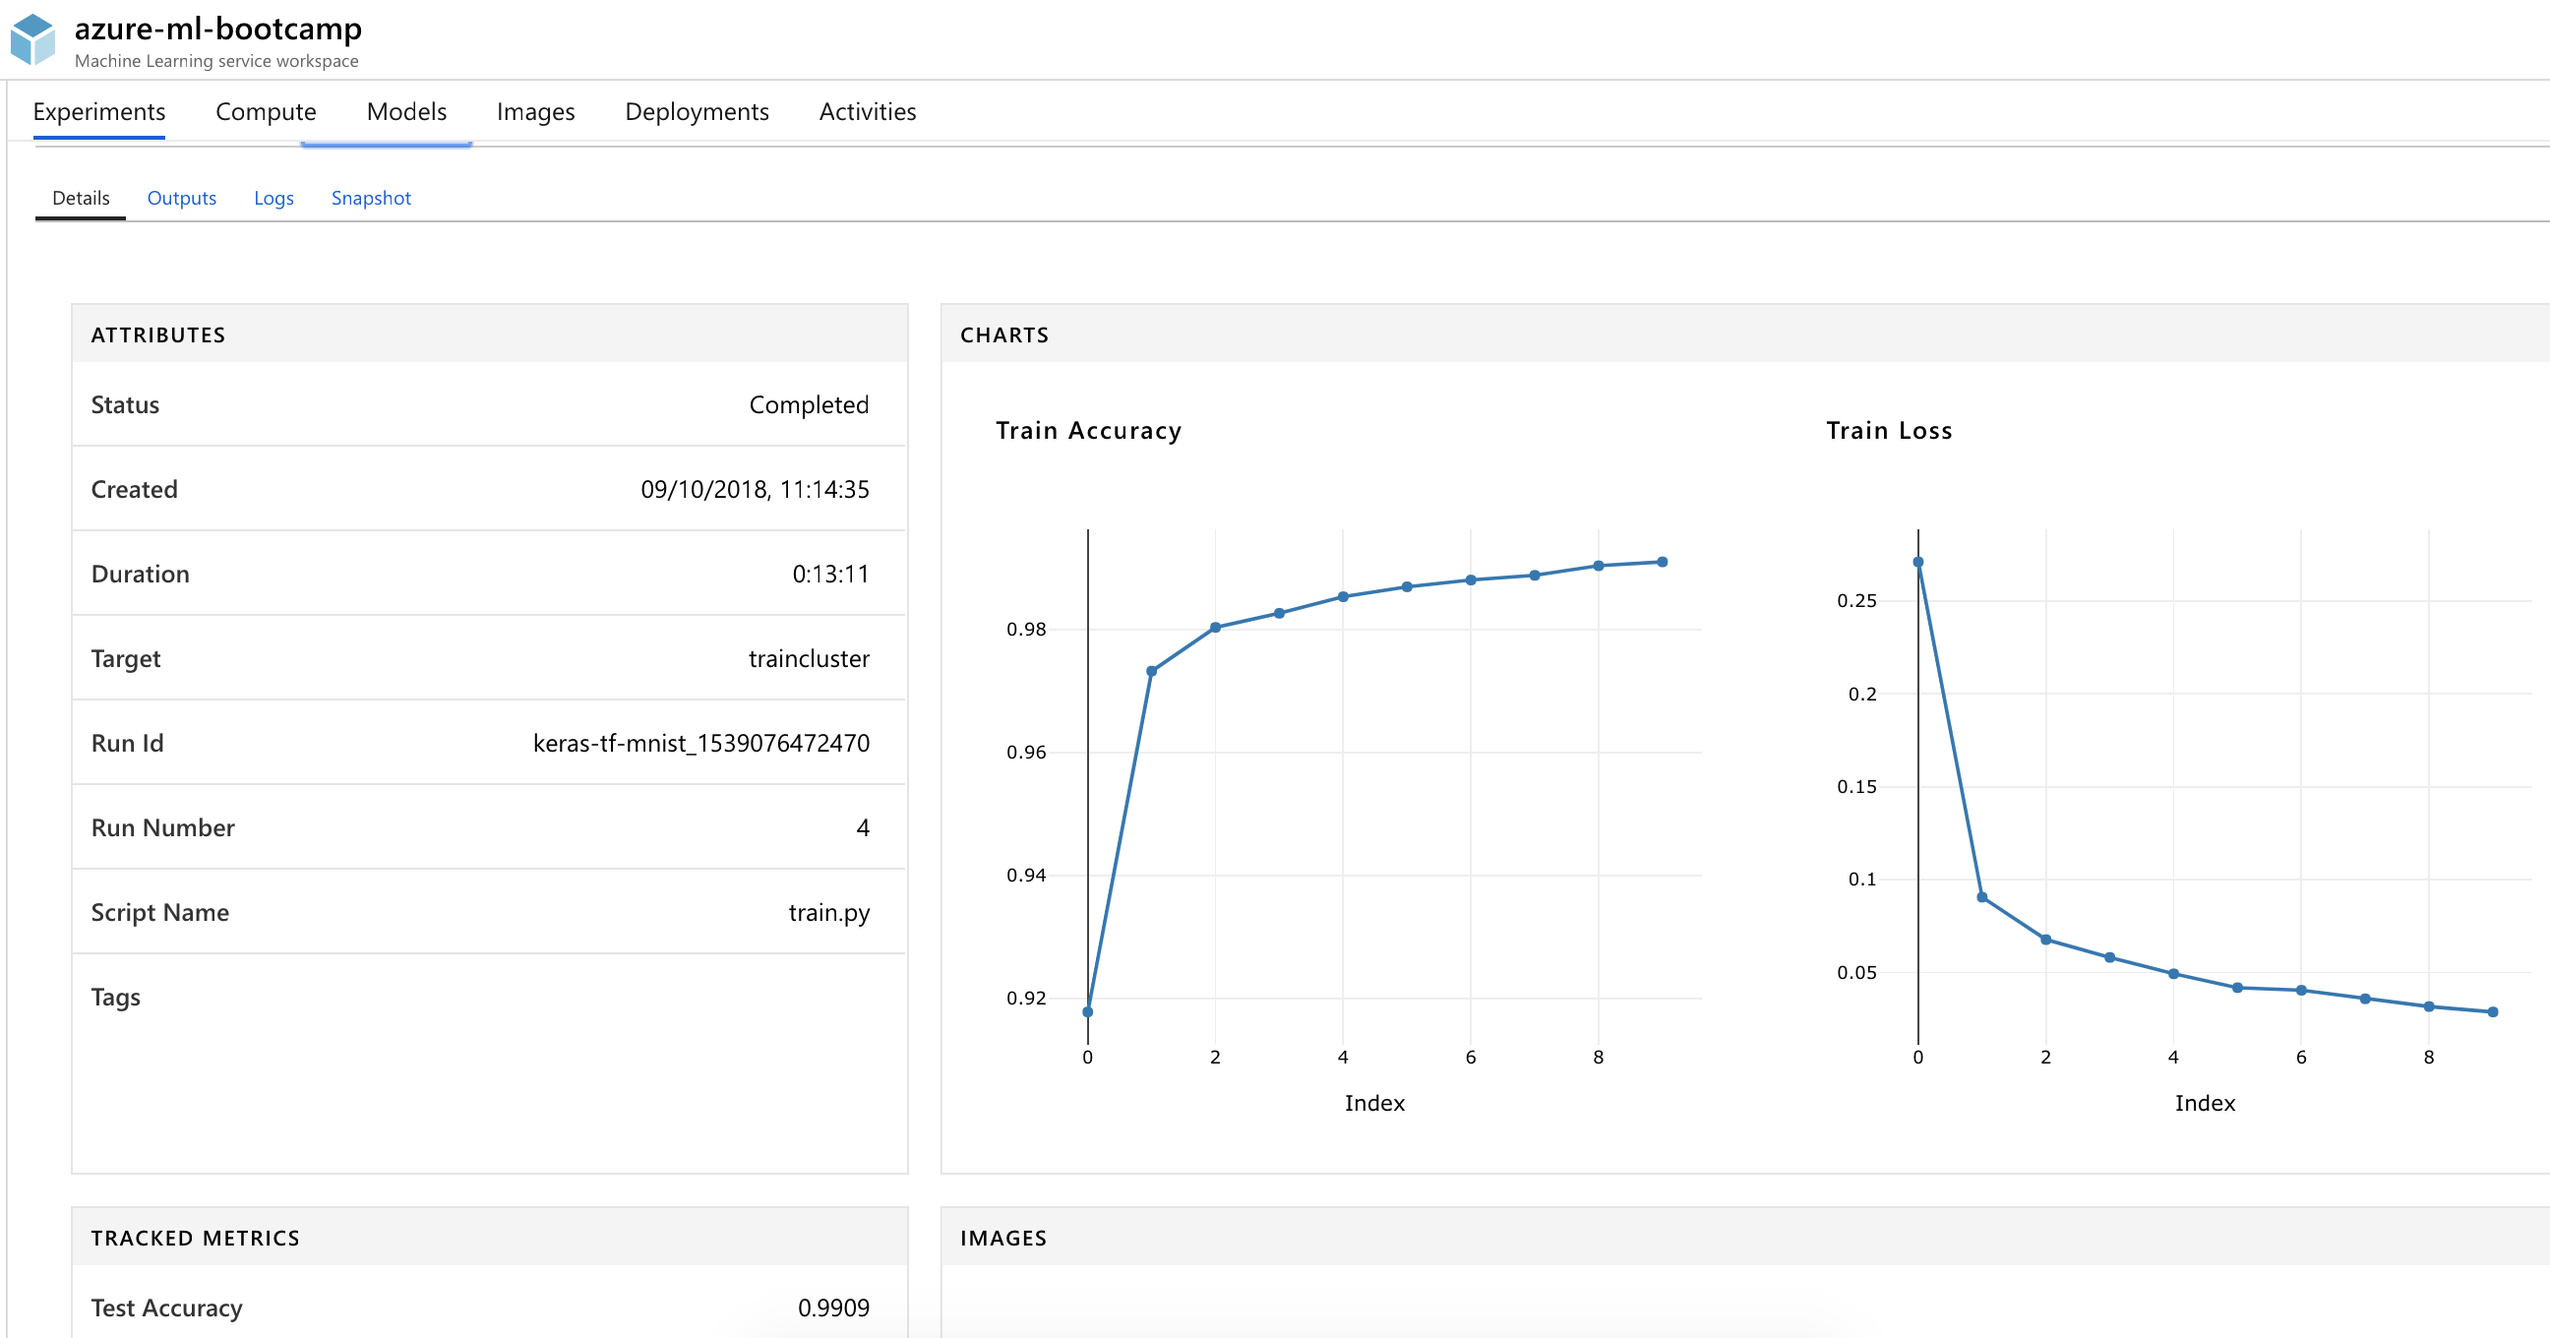
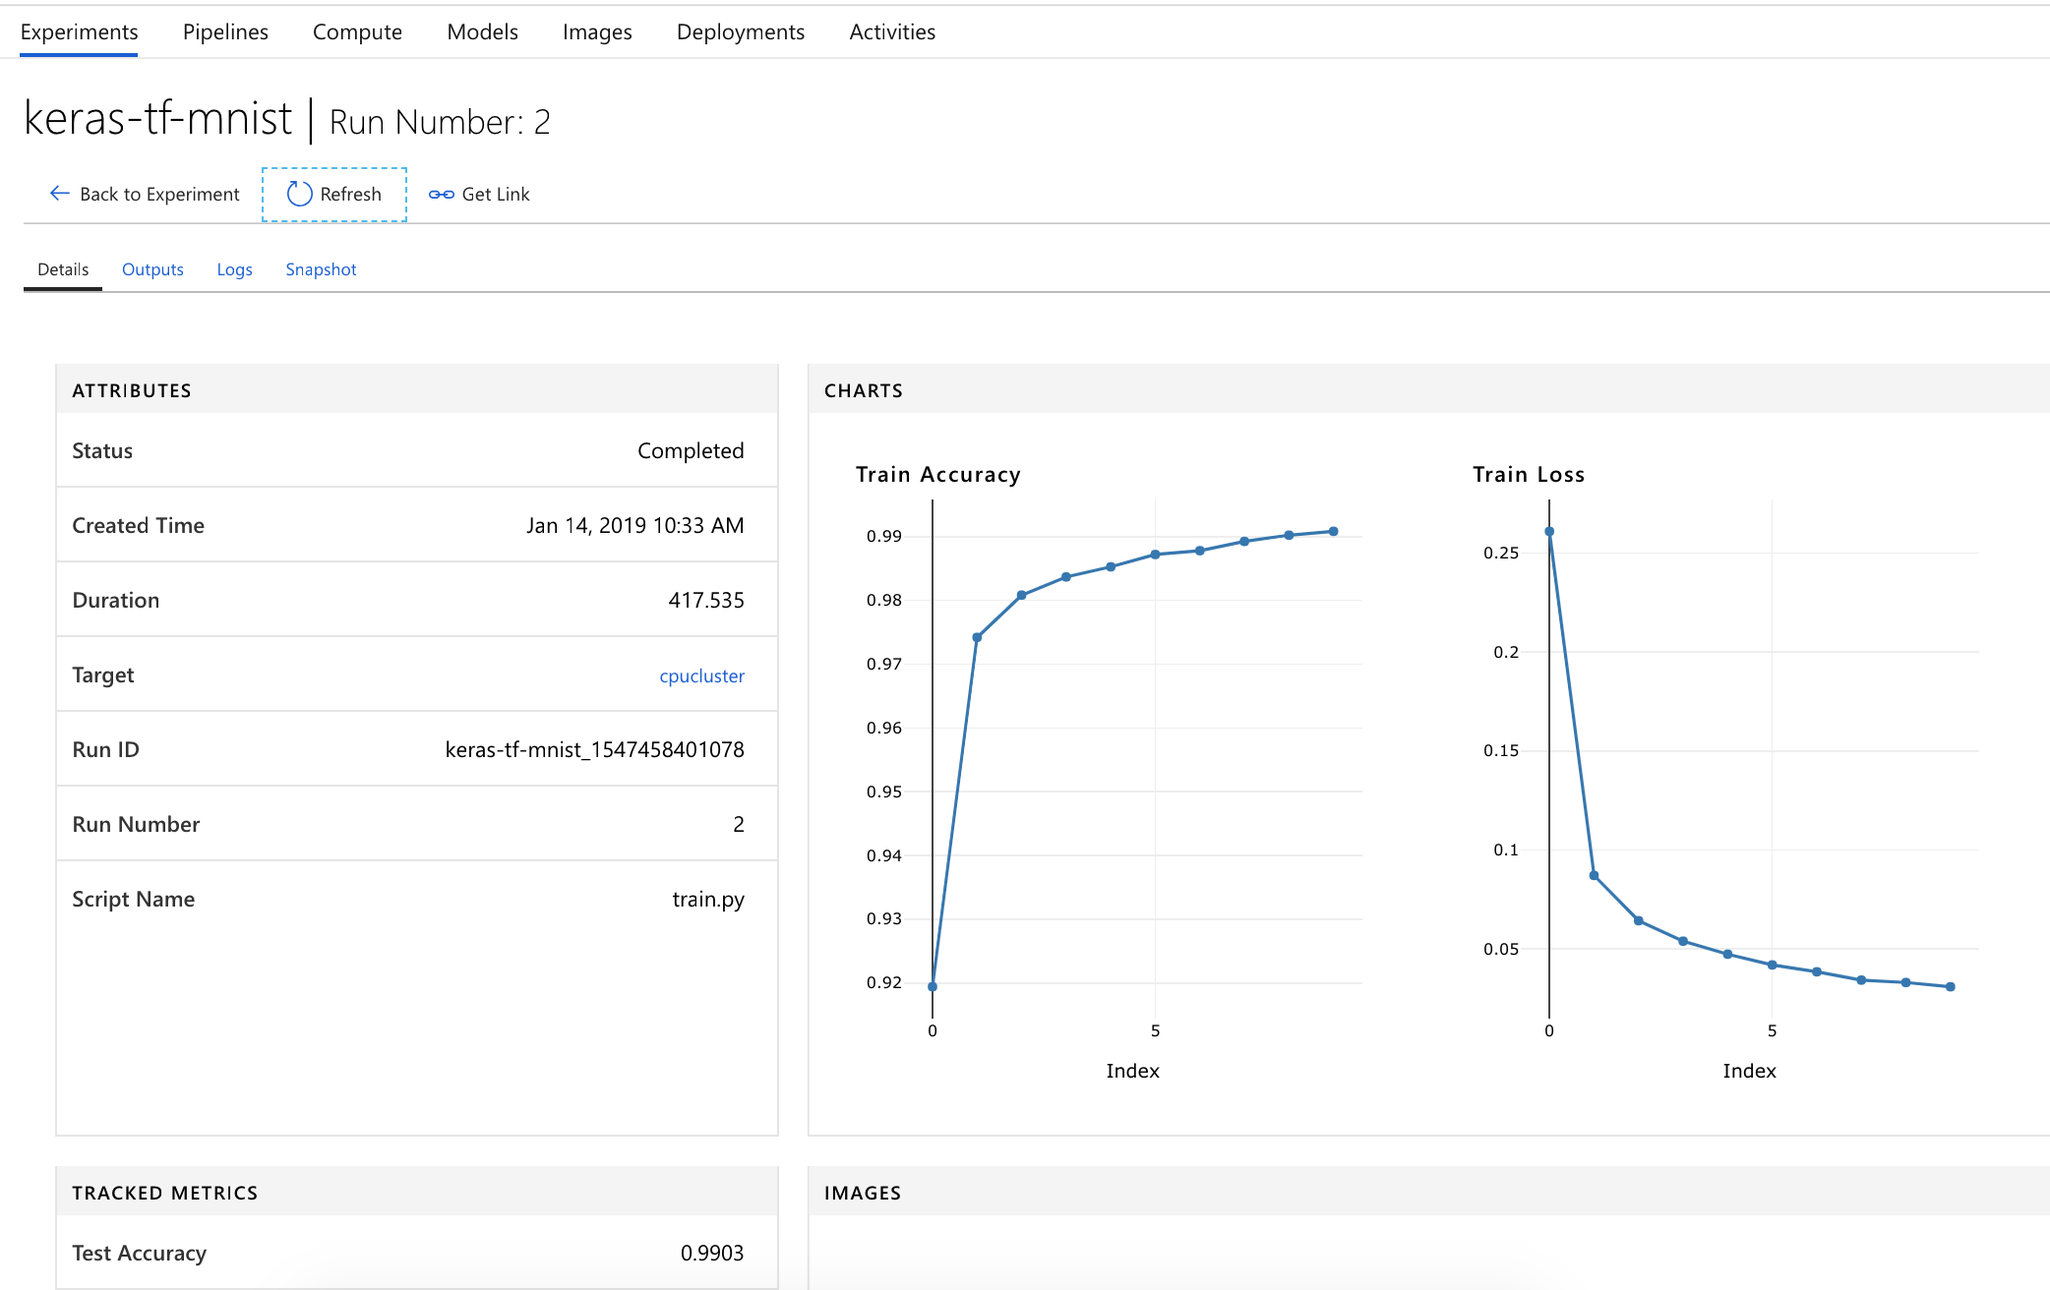
Updated Challenge 02

diff --git a/hints/challenge_02.md b/hints/challenge_02.md
@@ -1,8 +1,8 @@
 # Hints for Challenge 2
 
-Our model in challenge 1 had an accuracy of `92%`. For the MNIST data set, this is not very good. In order to train a more powerful and complex model, we'll need more compute. Hence, instead of training a model locally in our Notebook, we'll be using [Azure Batch AI](https://azure.microsoft.com/en-us/services/batch-ai/) to train our model on a dedicated compute cluster. As a Machine Learning framework, we'll use Keras with a TensorFlow backend. The good thing is, that the interaction with Azure Machine Learning won't change.
+Our model in challenge 1 had an accuracy of `92%`. For the MNIST data set, this is not very good. In order to train a more powerful and complex model, we'll need more compute. Hence, instead of training a model locally in our Notebook, we'll be using [Azure Machine Learning Compute](https://docs.microsoft.com/en-us/azure/machine-learning/service/how-to-set-up-training-targets) to train our model on a dedicated compute cluster. As a Machine Learning framework, we'll use Keras with a TensorFlow backend. The good thing is, that the interaction with Azure Machine Learning won't change.
 
-**Note:** Obviously we do not need Azure Batch AI for such a simple task, a single VM instance with GPU would be absolutely sufficient. However - for sake of education - we'll be using Azure Batch AI In this challenge. 
+**Note:** Obviously we do not need Azure Machine Learning Compute for such a simple task, a single VM instance with GPU would be absolutely sufficient. However - for sake of education - we'll be using Azure Machine Learning Compute In this challenge. 
 
 First, let's create a new notebook `challenge02.ipynb` for this challenge.
 
@@ -29,7 +29,7 @@ urllib.request.urlretrieve('http://yann.lecun.com/exdb/mnist/t10k-images-idx3-ub
 urllib.request.urlretrieve('http://yann.lecun.com/exdb/mnist/t10k-labels-idx1-ubyte.gz', filename='./data/test-labels.gz')
 ```
 
-In this challenge, we'll be training remotely. Therefore, we'll need to access the MNIST dataset inside our Batch AI cluster.
+In this challenge, we'll be training remotely. Therefore, we'll need to access the MNIST dataset inside our Azure Machine Learning Compute cluster.
 
 To do so, we'll upload it to the default datastore that our Azure ML Workspace provided for us. This code will retrieve the default datastore (Azure Files) and upload the four files from MNIST into the `./mnist` folder:
 
@@ -37,7 +37,9 @@ To do so, we'll upload it to the default datastore that our Azure ML Workspace p
 ds = ws.get_default_datastore()
 
 print("Datastore details:")
-print(ds.datastore_type, ds.account_name, ds.container_name)
+print("Type:", ds.datastore_type)
+print("Storage Account:", ds.account_name)
+print("Share Name:", ds.container_name)
 
 ds.upload(src_dir='./data', target_path='mnist', overwrite=True, show_progress=True)
 ```
@@ -46,51 +48,53 @@ If we go to the default Storage Account that the Azure ML Workspace created for 
 
 ![alt text](../images/02-dataset_in_azure_files.png "MNIST dataset in Azure Files")
 
-Next, we can create an empty Batch AI cluster in Azure:
+Next, we can create an `Azure Machine Learning Compute` cluster in Azure:
 
 ***Note:***
-If you are using a `Pay-as-you-Go` or `Free Trial` Azure subscription, you might need to create the Batch AI cluster in the `eastus` region, as `westeurope` is not enabled by default. To do so, just uncomment the `#location='eastus',` line. 
+If you are using a `Pay-as-you-Go` or `Free Trial` Azure subscription, please make sure that your Machine Learning workspace is in `eastus` region (it can happen that `westeurope` is not enabled by default). To do so, add a `location='eastus'` parameter in the `AmlCompute.provisioning_configuration` line. 
 
 ```python
-from azureml.core.compute import ComputeTarget, BatchAiCompute
-from azureml.core.compute_target import ComputeTargetException
+from azureml.core.compute import AmlCompute
+from azureml.core.compute import ComputeTarget
+import os
 
-# choose a name for your cluster
-batchai_cluster_name = "traincluster"
+# Configure our cluster details
+compute_name = "cpucluster"
+compute_min_nodes = 1
+compute_max_nodes = 1
+vm_size = "STANDARD_D4_V2"
 
-try:
-    # look for the existing cluster by name
-    compute_target = ComputeTarget(workspace=ws, name=batchai_cluster_name)
-    if type(compute_target) is BatchAiCompute:
-        print('found compute target {}, just use it.'.format(batchai_cluster_name))
-    else:
-        print('{} exists but it is not a Batch AI cluster. Please choose a different name.'.format(batchai_cluster_name))
-except ComputeTargetException:
-    print('creating a new compute target...')
-    compute_config = BatchAiCompute.provisioning_configuration(vm_size="STANDARD_D4_V2", # small CPU-based VM
-                                                               #location='eastus', # use eastus location if you are using a free or Pay-as-you-go subscription!
-                                                               #vm_priority='lowpriority', # optional
-                                                               autoscale_enabled=True,
-                                                               cluster_min_nodes=1, 
-                                                               cluster_max_nodes=1)
+# Check if a cluster with the same name already exists
+if compute_name in ws.compute_targets:
+    compute_target = ws.compute_targets[compute_name]
+    if compute_target and type(compute_target) is AmlCompute:
+        print("Found compute target, let's just reuse it:", compute_name)
+else:
+    print('Creating a new compute target...')
+    provisioning_config = AmlCompute.provisioning_configuration(vm_size = vm_size,
+                                                                min_nodes = compute_min_nodes,
+                                                                max_nodes = compute_max_nodes)
 
-    # create the cluster and wait until it has been provisioned
-    compute_target = ComputeTarget.create(ws, batchai_cluster_name, compute_config)
+    # Create the cluster
+    compute_target = ComputeTarget.create(ws, compute_name, provisioning_config)
+    
+    # We can poll for a minimum number of nodes and for a specific timeout. 
+    # If no min node count is provided it will use the scale settings for the cluster
     compute_target.wait_for_completion(show_output=True, min_node_count=None, timeout_in_minutes=20)
     
-    # Get the status of our cluster
+     # For a more detailed view of current AmlCompute status, use the 'status' property    
     print(compute_target.status.serialize())
 ```
 
-Here we can configure our cluster size, the initial VM count, autoscaling, and most importantly, the VM Size. In our example, we'll stick with a smaller VM for saving cost. If you want, you can try out a more powerful VM, or even a `NC` instance. Provisioning the initial cluster should take around 3-05 minutes.
+Here we can configure our minimum and maximum cluster size, and most importantly, the VM Size. In our example, we'll stick with a smaller VM for saving cost. If you want, you can try out a more powerful VM, or even a `NC` instance. Provisioning the initial cluster should take around 3-5 minutes. More details on further configuration parameters can be found [here](https://docs.microsoft.com/en-us/python/api/azureml-core/azureml.core.compute.amlcompute(class)?view=azure-ml-py#provisioning-configuration-vm-size-----vm-priority--dedicated---min-nodes-0--max-nodes-none--idle-seconds-before-scaledown-none--vnet-resourcegroup-name-none--vnet-name-none--subnet-name-none--tags-none--description-none-), as for example `idle_seconds_before_scaledown`, which defines when the cluster should auto-scale down.
 
-If we now look under the `Compute` tab in our Azure ML Workspace, we can see our Batch AI cluster:
+If we now look under the `Compute` tab in our Azure ML Workspace, we can see our Azure Machine Learning Compute cluster:
 
-![alt text](../images/02-create_cluster.png "Create our Batch AI cluster for training")
+![alt text](../images/02-create_cluster.png "Create our Machine Learning Compute cluster for training")
 
 The cluster VMs will take a few minutes to spin up.
 
-In the last challenge, we had all our code in our Jupyter Notebook. Since we're training remotely now, our Batch AI cluster needs to somehow get the Python code for reading the data and training our model. Hence, we create a `scripts` folder and put our training Python code in it:
+In the last challenge, we had all our code in our Jupyter Notebook. Since we're training remotely now, our Machine Learning Compute cluster needs to somehow get the Python code for reading the data and training our model. Hence, we create a `scripts` folder and put our training Python code in it:
 
 ```python
 import os, shutil
@@ -198,7 +202,7 @@ run.log('Epochs', epochs)
 # Azure ML expects a field called 'accuracy' for displaying it in the Azure portal
 run.log('accuracy', accuracy)
 
-# Save model, the outputs folder is automatically uploaded into experiment record by Batch AI
+# Save model, the outputs folder is automatically uploaded into experiment record by Azure Machine Learning Compute
 os.makedirs('outputs', exist_ok=True)
 model.save('./outputs/keras-tf-mnist.h5')
 ```
@@ -213,9 +217,9 @@ This looks a little bit more complex than our last example! Let's walk through w
 1. We let Keras assemble and train the model
 1. We run our test data through it and get the predictions
 1. We log the train and test accuracies to our experiment
-1. We save the model to the `outputs/` folder (Batch AI will automatically upload that folder to the experiment afterwards)
+1. We save the model to the `outputs/` folder (Azure Machine Learning Compute will automatically upload that folder to the experiment afterwards)
 
-To get the training working, we need to package the scripts and "send" them to Batch AI. Azure ML uses the `Estimator` class for that:
+To get the training working, we need to package the scripts and "send" them to Azure Machine Learning Compute. Azure ML uses the `Estimator` class for that:
 
 ```python
 from azureml.train.estimator import Estimator
@@ -235,7 +239,7 @@ est = Estimator(source_directory=script_folder,
                 conda_packages=['keras'])
 ```
 
-As you can see, we define where our scripts are, what the compute target should be, and the dependencies (`keras` in this case). Lastly, we also give in the script parameters, for trying out different hyperparameters (not covered here).
+As you can see, we define where our scripts are, what the compute target should be, and the dependencies (`keras` in this case). Lastly, we also give in the script parameters, for [(automatically) trying out different hyperparameters](https://docs.microsoft.com/en-us/azure/machine-learning/service/how-to-tune-hyperparameters) (not covered here).
 
 **Note**: There is also a separate `TensorFlow` Estimator for just TensorFlow, see [here](https://docs.microsoft.com/en-us/azure/machine-learning/service/how-to-train-tensorflow). Since we want to keep it generic in this challenge, we'll rely on the standard `Estimator`.
 
@@ -246,31 +250,24 @@ run = experiment.submit(config=est)
 run
 ```
 
-Submitting the job is an asynchronous call, hence we'll have to keep checking the status (the widget will auto-refresh):
+We are be able to see what is going on by logging into the Azure Portal, selecting our `ML Workspace`, clicking `Experiment`, picking the latest `Run`, clicking `Logs` and then picking the desired log file.
 
-```python
-from azureml.train.widgets import RunDetails
-RunDetails(run).show()
-```
+Under the `Compute` tab, we can also see that our cluster is now training the model:
 
-**Note**: The widget current only seems to work in Chrome and Edge.
+![alt text](../images/02-running_training.png "Our trainig is running")
 
 The initial run will take a while, here's why:
 
 In the background, Azure ML will now perform the following steps:
 
 * Package our scripts as a Docker image and push it to our Azure Container Registry (initially this will take 5-10 minutes)
-* Scale up the Batch AI cluster (if initial size was 0)
-* Pull the Docker image to the Batch AI cluster
-* Mount the MNIST data from Azure Files to the Batch AI cluster (for fast local access)
+* Scale up the Azure Machine Learning Compute cluster (only if initial size was 0)
+* Pull the Docker image to the Azure Machine Learning Compute cluster
+* Mount the MNIST data from Azure Files to the Azure Machine Learning Compute cluster (for fast local access)
 * Start the training job
 * Publish the results to our Workspace (same as before)
 
 The first run might take ~10-15 minutes. Subsequent runs will be significantly faster (~5 minutes) as the base Docker image will be ready and already pushed. By using a more powerful VM, a single run can be executed in less than a minute (in case you use a GPU-equipped instance, you might need to tell your framework to use it).
-
-In the Batch AI Experiments section, we can see our run:
-
-![alt text](../images/02-batch_ai_experiment.png "Batch AI Experiment run")
 
 With the same code as before (this is the strength of Azure ML), we can retrieve the results of our training run:
 
@@ -292,7 +289,7 @@ model = run.register_model(model_name='keras-tf-mnist-model', model_path='output
 print(model.name, model.id, model.version, sep = '\t')
 ```
 
-If we want, we can also delete our Batch AI cluster (we won't need it in the next challenges):
+If we want, we can also delete our Azure Machine Learning Compute cluster (we won't need it in the next challenges):
 
 ```python
 compute_target.delete()
@@ -300,7 +297,7 @@ compute_target.delete()
 
 At this point (in addition to the results from challenge 1):
 
-* We used the Azure Machine Learning SDK with Azure Batch AI in the background to train a Convolutional Neural Network (CNN)
+* We used the Azure Machine Learning SDK with Azure Machine Learning Compute in the background to train a Convolutional Neural Network (CNN)
 * We switched our training framework from Scikit-Learn to Keras with TensorFlow in the backend (without changing any Azure ML code!)
 * We registered our new model (>`99%` accuracy) in our Azure ML Workspace
 

diff --git a/README.md b/README.md
@@ -42,7 +42,7 @@ In this challenge, you'll be training a more advanced machine learning model on 
 
 Guidance:
 * Make a copy of the Notebook from Challenge 1
-* This time we'll be using `Keras` with a TensorFlow backend to train a Convolution Neural Network on Azure Batch AI
+* This time we'll be using `Keras` with a TensorFlow backend to train a Convolution Neural Network on Azure Machine Learning Compute
 * Target accuracy of our model on the test data set: `>99%`
 
 ## Challenge 3 - Model deployment on Azure
@@ -69,13 +69,13 @@ Guidance:
 
 ## Further Challenges
 
-Most likely, we won't be able to tackle those points out of time reasons:
+There's a lot more interesting stuff that Azure Machine Learning can do for us. Most likely, we won't get it to it today due to time constraints:
 
-* Secure our model endpoint on ACI with an authentication key
+* Secure our model endpoint on ACI with an authentication key (use `auth_enabled` and [see here](https://docs.microsoft.com/en-us/azure/machine-learning/service/how-to-consume-web-service#connection-information))
 * Embed Application Insights into our model for monitoring (look [here](https://docs.microsoft.com/en-us/azure/machine-learning/service/how-to-enable-data-collection) and [here](https://docs.microsoft.com/en-us/azure/machine-learning/service/how-to-enable-app-insights))
 
 # Recommended Trainings
-* [Microsoft Professional Program for Artificial Intelligence track](https://academy.microsoft.com/en-us/tracks/artificial-intelligence) - extremely in-depth and very extensive (includes a lot of mandatory hands-on)
+* [Microsoft Professional Program for Artificial Intelligence track](https://academy.microsoft.com/en-us/tracks/artificial-intelligence) - extremely in-depth and very extensive training (includes a lot of mandatory hands-on)
 
 # Further Material
 
